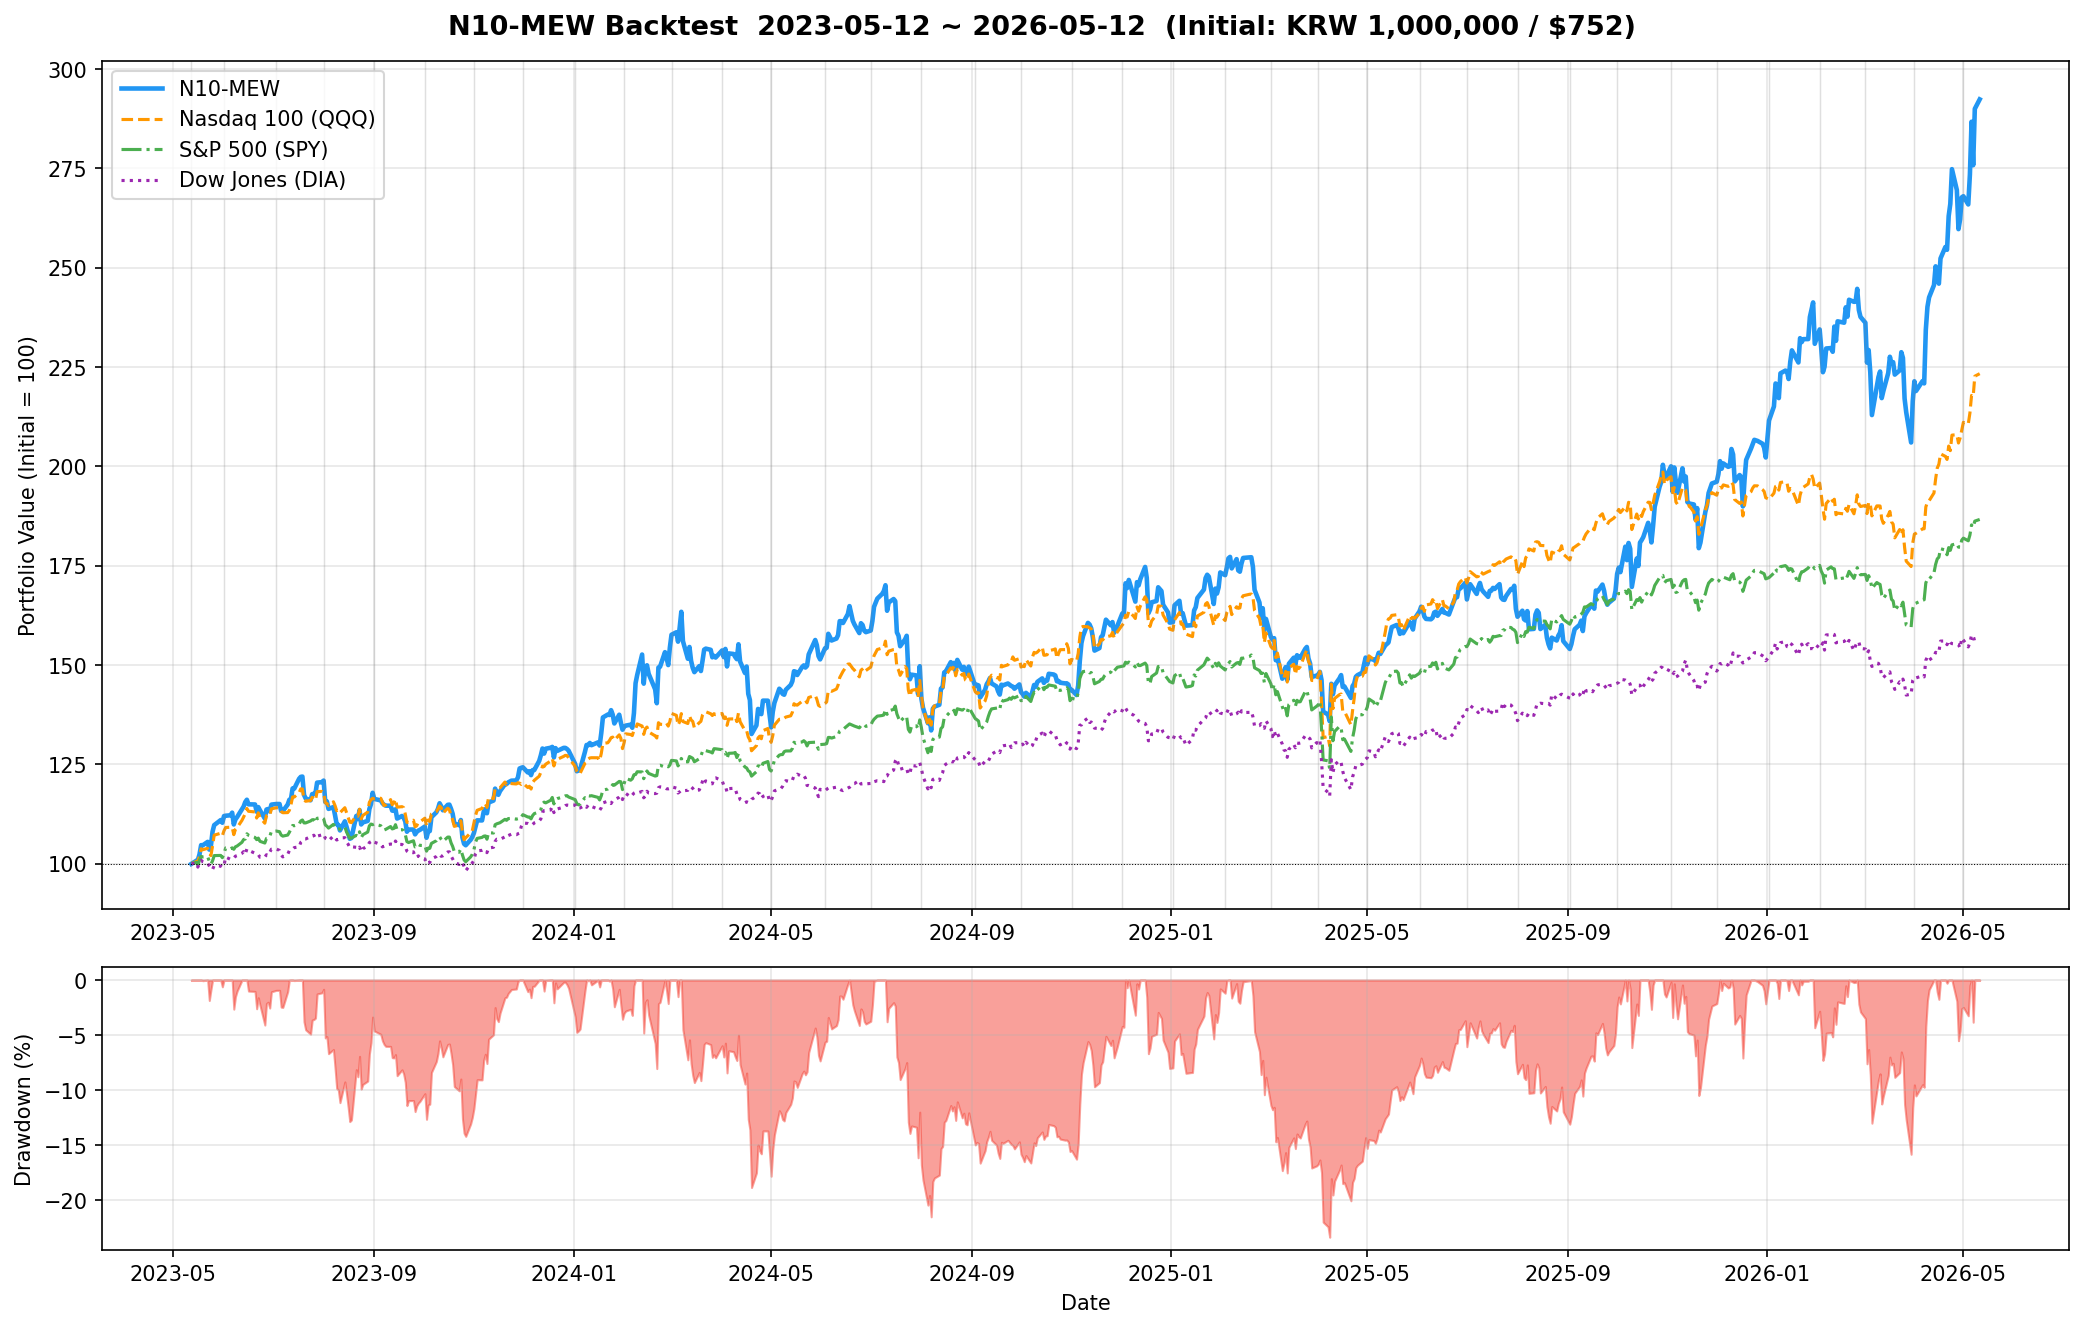
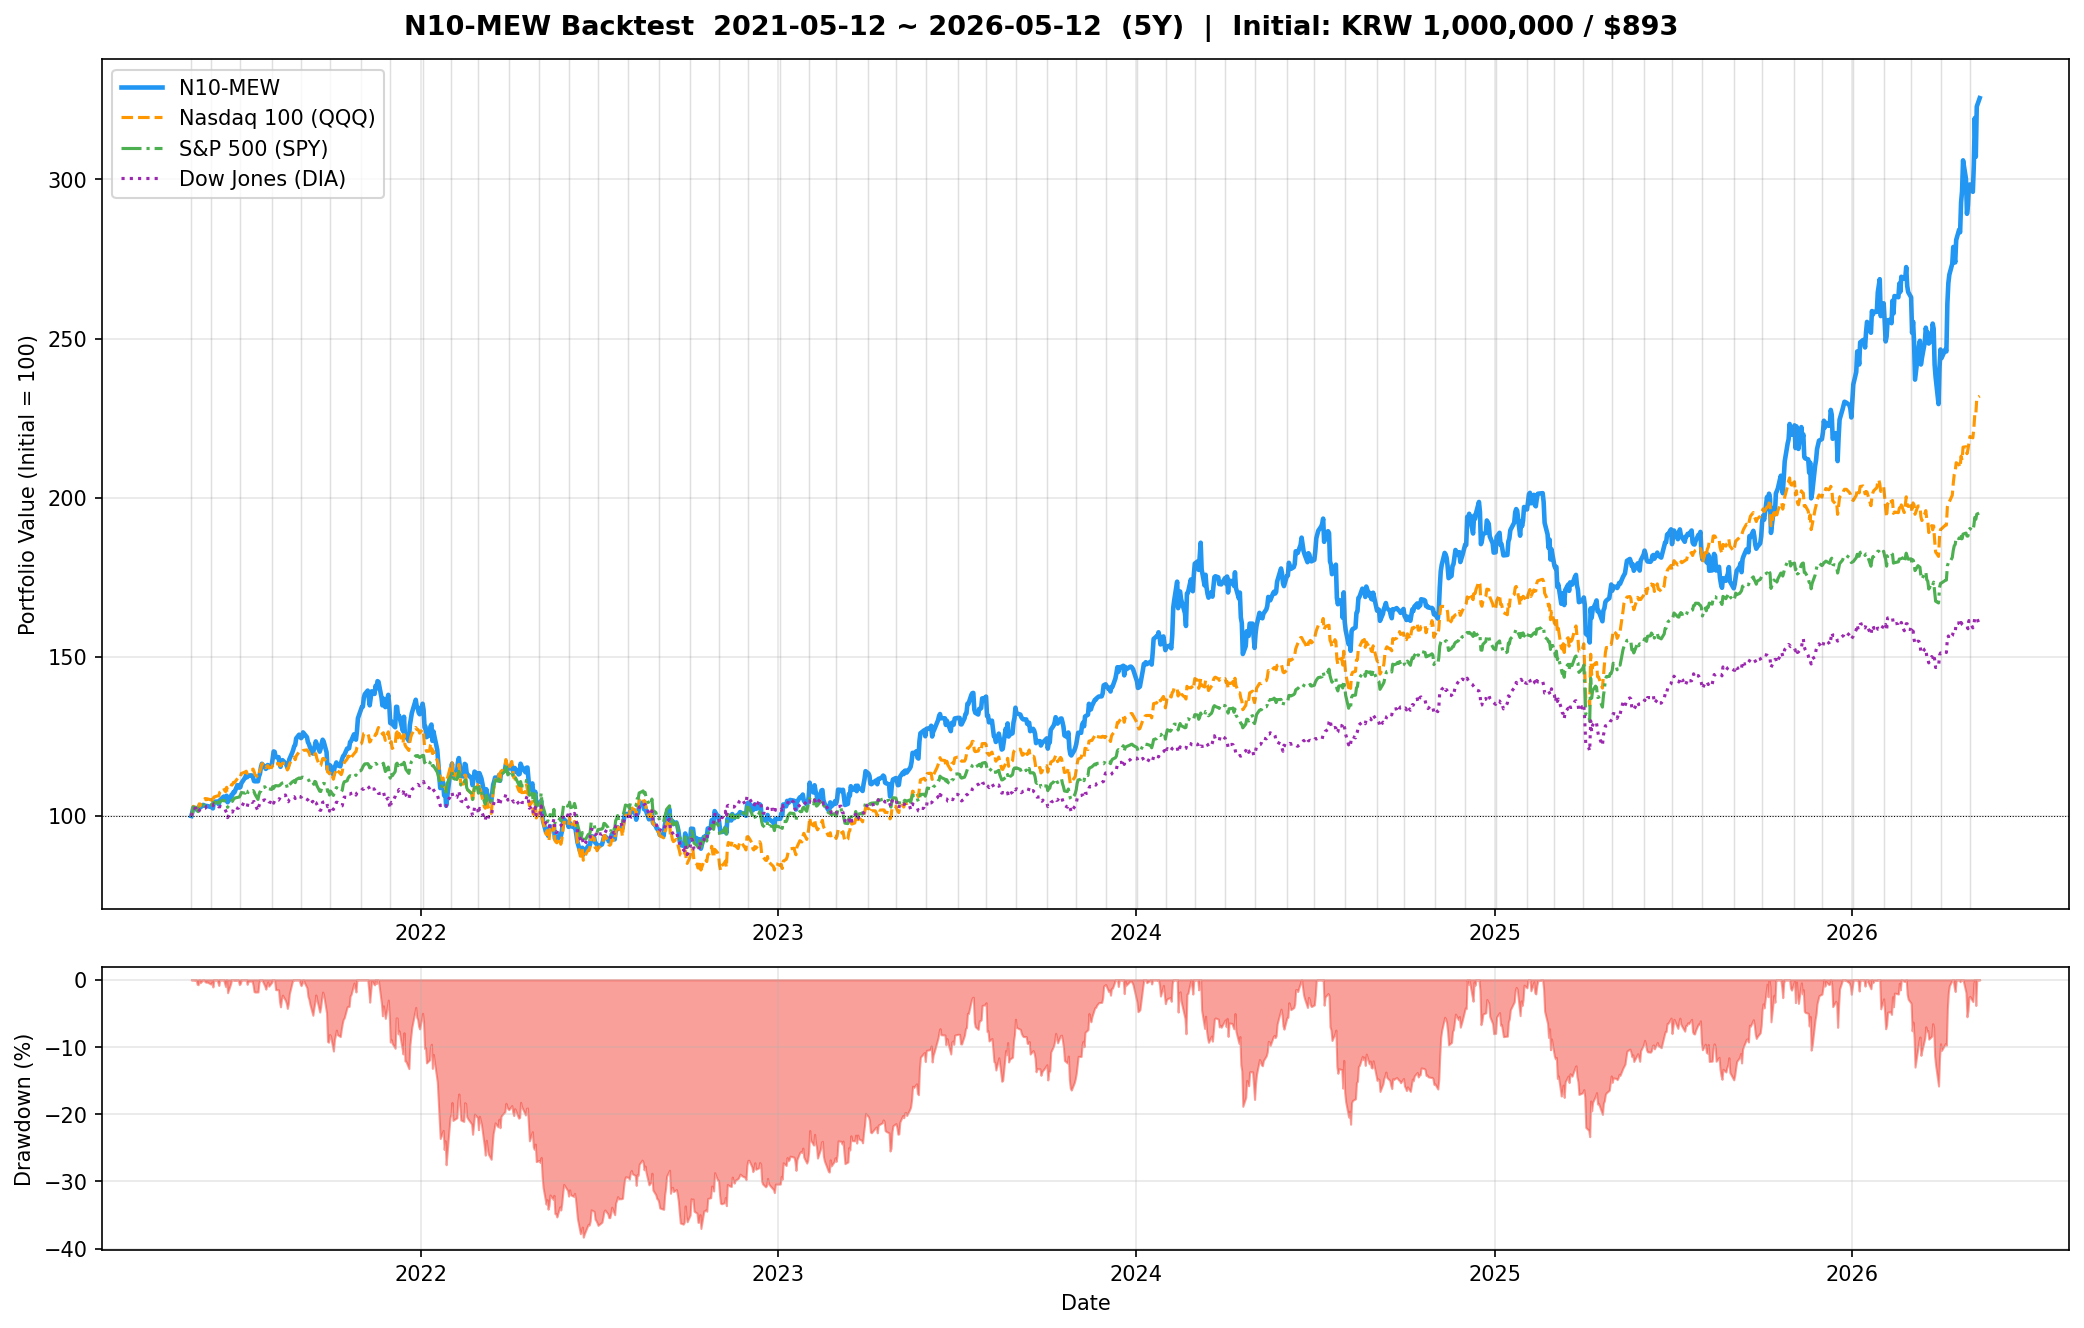
feat: 5년 백테스트 확장 및 모의투자 초기 실행 개선
- backtest.py: 백테스트 기간 3년 → 5년으로 확장 (2021-05-12 ~ 2026-05-12)
  총 수익률 +225%, CAGR +26.6%, QQQ/SPY/DIA 3개 지수 동시 비교
- rebalancer.py: execute_rebalance에 force 파라미터 추가 (집행 시간 제한 우회)
- quant_logic.py: 첫 실행 시 빈 포트폴리오 감지하여 즉시 초기 구성 실행
- data/mock_account.json: 초기 자본 $1,000으로 설정, 9개 종목 초기 편입 완료

diff --git a/backtest.py b/backtest.py
@@ -13,10 +13,10 @@ sys.path.insert(0, ".")
 from config import UNIVERSE_TICKERS, MOMENTUM_PERIOD_DAYS, TOP_N_PORTFOLIO, WEIGHT_PER_STOCK
 
 # ── 백테스트 설정 ─────────────────────────────────────────────────
-BACKTEST_START   = date(2023, 5, 12)   # 투자 시작일 (3년 전)
+BACKTEST_START   = date(2021, 5, 12)   # 투자 시작일 (5년 전)
 BACKTEST_END     = date(2026, 5, 12)   # 종료일 (오늘)
 INITIAL_KRW      = 1_000_000
-KRW_USD_ENTRY    = 1_330               # 2023-05-12 기준 환율 (투자 시점)
+KRW_USD_ENTRY    = 1_120               # 2021-05-12 기준 환율 (투자 시점)
 KRW_USD_EXIT     = 1_370               # 2026-05-12 기준 환율 (회수 시점, 근사)
 INITIAL_USD      = INITIAL_KRW / KRW_USD_ENTRY
 SLIPPAGE         = 0.0005              # 거래당 편도 0.05% (수수료 + 슬리피지)
@@ -118,7 +118,8 @@ def _rebalance(prices: pd.DataFrame, as_of: pd.Timestamp,
 def run_backtest():
     print("=" * 64)
     print("  📊 N10-MEW 전략 백테스트 리포트")
-    print(f"  기간   : {BACKTEST_START} → {BACKTEST_END}  (3년)")
+    years_label = round((BACKTEST_END - BACKTEST_START).days / 365.25)
+    print(f"  기간   : {BACKTEST_START} → {BACKTEST_END}  ({years_label}년)")
     print(f"  초기자본: ₩{INITIAL_KRW:,}  (환율 {KRW_USD_ENTRY}₩/$  ≈  ${INITIAL_USD:,.2f})")
     print("=" * 64)
 
@@ -286,8 +287,8 @@ def run_backtest():
 
         fig, (ax1, ax2) = plt.subplots(2, 1, figsize=(14, 9),
                                         gridspec_kw={"height_ratios": [3, 1]})
-        fig.suptitle(f"N10-MEW Backtest  {BACKTEST_START} ~ {BACKTEST_END}  "
-                     f"(Initial: KRW {INITIAL_KRW:,} / ${INITIAL_USD:,.0f})",
+        fig.suptitle(f"N10-MEW Backtest  {BACKTEST_START} ~ {BACKTEST_END}  (5Y)"
+                     f"  |  Initial: KRW {INITIAL_KRW:,} / ${INITIAL_USD:,.0f}",
                      fontsize=13, fontweight="bold")
 
         # 수익률 곡선

diff --git a/rebalancer.py b/rebalancer.py
@@ -114,15 +114,17 @@ class N10MEWRebalancer:
     # ------------------------------------------------------------------ #
 
     def execute_rebalance(
-        self, new_top10: list, current_prices: dict, reason: str = "월간 정기 리밸런싱"
+        self, new_top10: list, current_prices: dict,
+        reason: str = "월간 정기 리밸런싱", force: bool = False
     ) -> bool:
         """
         리밸런싱 3단계:
           1. 탈락 종목 전량 매도  (현금 확보)
           2. 잔류 종목 과비중 매도 (비중 정규화)
           3. 신규/과소비중 종목 매수
+        force=True 이면 집행 시간 제한을 무시합니다 (초기 포트폴리오 구성 시).
         """
-        if not self._is_execution_window():
+        if not force and not self._is_execution_window():
             logger.info(
                 f"⏳ [Rebalancer] 집행 가능 시간이 아닙니다 "
                 f"({REBALANCE_EXECUTION_TIME} 이후부터 가능)."

diff --git a/quant_logic.py b/quant_logic.py
@@ -180,8 +180,16 @@ class TradingStrategy:
 
         # 5. 리밸런싱 트리거 판단
         new_top10 = self.full_ranking[:TOP_N_PORTFOLIO]
+        holdings = self.rebalancer._get_holdings()
 
-        if self.rebalancer.should_rebalance_monthly():
+        if not holdings and not self.rebalancer.current_portfolio:
+            # 첫 실행: 포지션이 없으면 즉시 초기 포트폴리오 구성 (시간 제한 없음)
+            logger.info("🆕 [Strategy] 첫 실행 감지 — 초기 포트폴리오를 즉시 구성합니다.")
+            self.rebalancer.execute_rebalance(
+                new_top10, current_prices, reason="초기 포트폴리오 구성", force=True
+            )
+
+        elif self.rebalancer.should_rebalance_monthly():
             logger.info("📅 [Strategy] 월간 정기 리밸런싱 트리거 발동!")
             self.rebalancer.execute_rebalance(
                 new_top10, current_prices, reason="월간 정기 리밸런싱"
